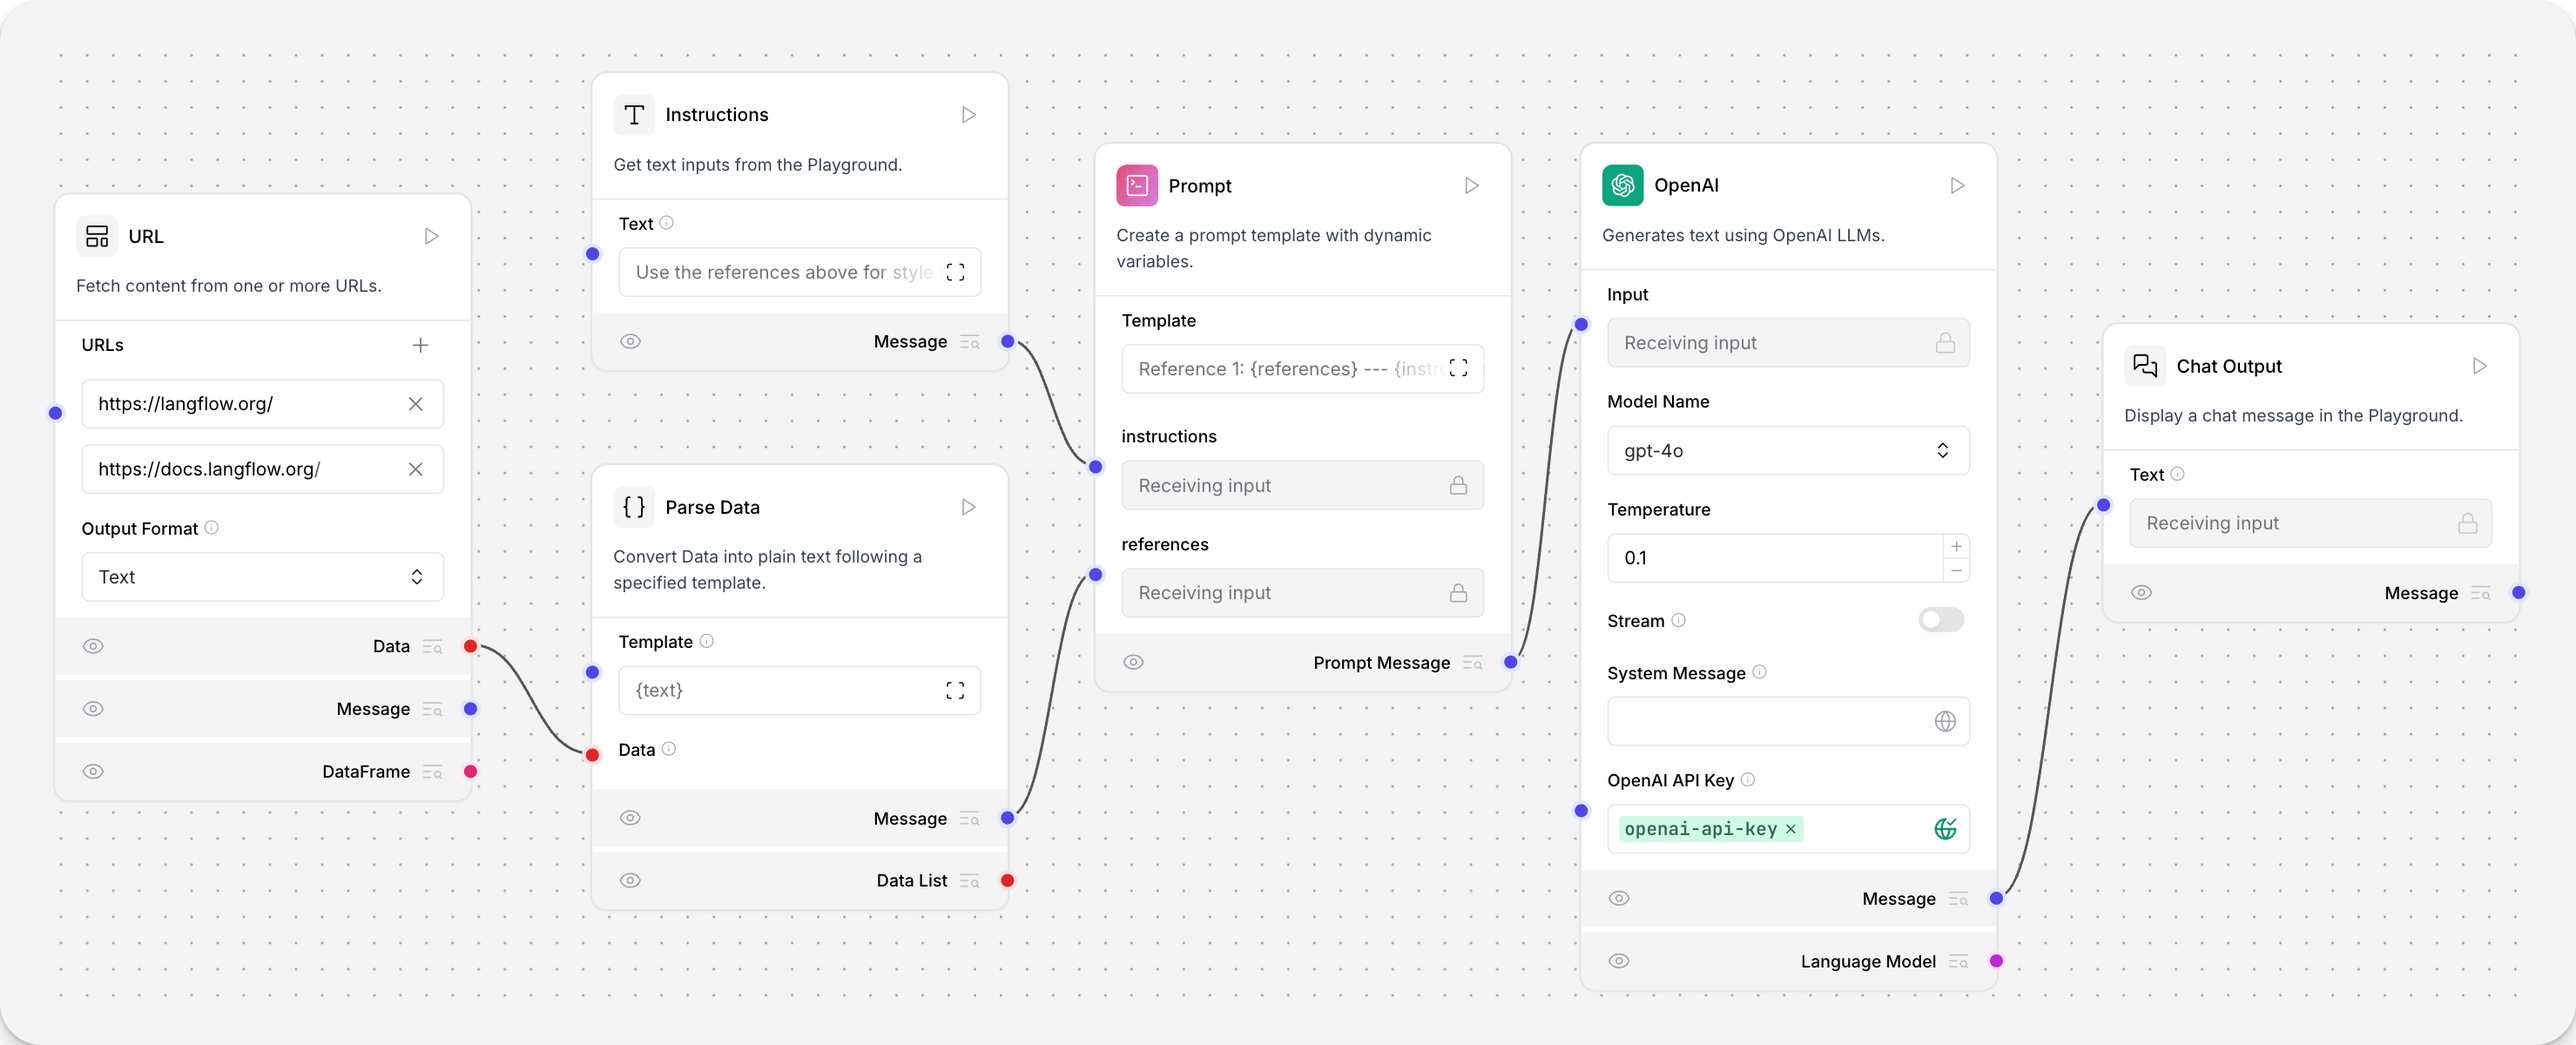
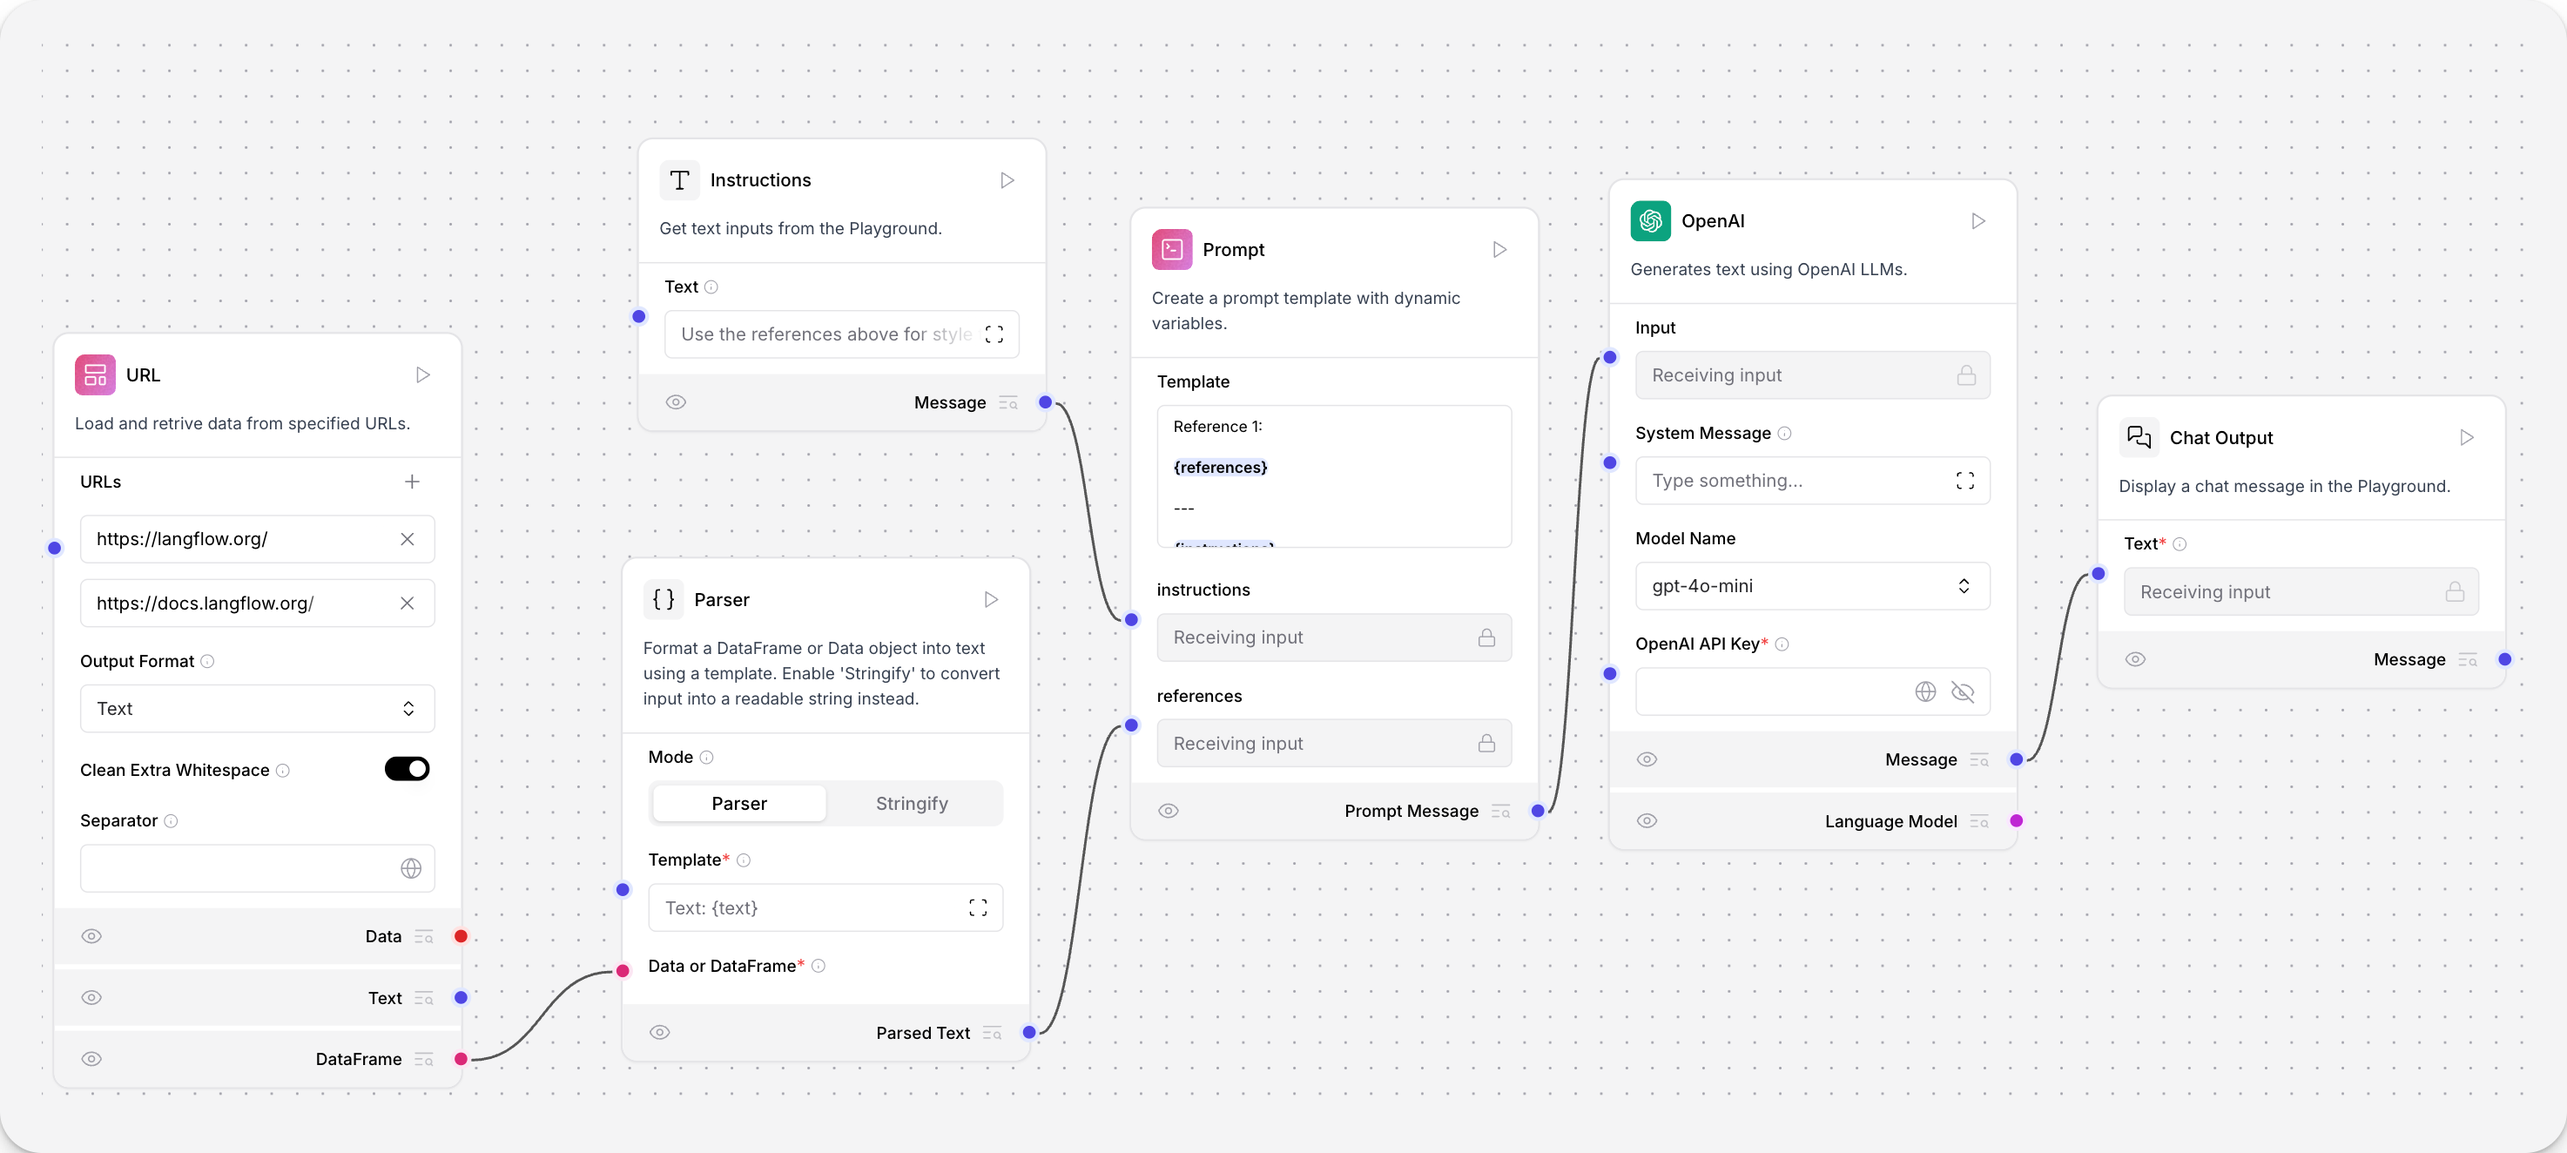
docs: clean up starter flows and screenshots (#7428)
* quickstart-use-parser

* update-screenshots

* blog-writer

* document-qa

* remove-math-agent-and-redirect

* other-starter-flows

* swap-message-history-and-message-store

* link

* prerequisite-language

* Apply suggestions from code review

* docs: update prerequisite phrasing for clarity

* add-running-instance-to-quickstart

* bullets

* quickstart-spacing

---------

diff --git a/docs/docusaurus.config.js b/docs/docusaurus.config.js
@@ -172,8 +172,9 @@ const config = {
             ],
           },
           {
-            to: "/math-agent",
+            to: "/starter-projects-simple-agent",
             from: [
+              "/math-agent",
               "/starter-projects-math-agent",
               "/tutorials-math-agent"
             ],

diff --git a/docs/sidebars.js b/docs/sidebars.js
@@ -25,7 +25,6 @@ module.exports = {
         'Sample-Flows/blog-writer',
         'Sample-Flows/document-qa',
         'Sample-Flows/memory-chatbot',
-        'Sample-Flows/math-agent',
         'Sample-Flows/sequential-agent',
         'Sample-Flows/travel-planning-agent',
       ],

diff --git a/docs/docs/Get-Started/get-started-quickstart.md b/docs/docs/Get-Started/get-started-quickstart.md
@@ -9,17 +9,18 @@ Get to know Langflow by building an OpenAI-powered chatbot application. After yo
 
 ## Prerequisites
 
-* [An OpenAI API key](https://platform.openai.com/)
-* [An Astra DB vector database](https://docs.datastax.com/en/astra-db-serverless/get-started/quickstart.html) with:
-	* An Astra DB application token scoped to read and write to the database
-	* A collection created in [Astra](https://docs.datastax.com/en/astra-db-serverless/databases/manage-collections.html#create-collection) or a new collection created in the **Astra DB** component
+- [A running Langflow instance](/get-started-installation)
+- [An OpenAI API key](https://platform.openai.com/)
+- [An Astra DB vector database](https://docs.datastax.com/en/astra-db-serverless/get-started/quickstart.html) with:
+	- An Astra DB application token scoped to read and write to the database
+	- A collection created in [Astra](https://docs.datastax.com/en/astra-db-serverless/databases/manage-collections.html#create-collection) or a new collection created in the **Astra DB** component
 
 ## Open Langflow and start a new project
 
 1. From the Langflow dashboard, click **New Flow**, and then select **Blank Flow**. A blank workspace opens where you can build your flow.
 
 :::tip
-If you don't want to create a blank flow, click **New Flow**, and then select **Basic Prompting** for a pre-built flow.
+If you want a pre-built flow, click **New Flow**, and then select **Basic Prompting**.
 Continue to [Run the basic prompting flow](#run-basic-prompting-flow).
 :::
 
@@ -68,8 +69,8 @@ Add your OpenAI API key to the OpenAI model component, and add a prompt to the P
 
 1. Add your credentials to the OpenAI component. The fastest way to complete these fields is with Langflow’s [Global Variables](/configuration-global-variables).
 
-	1. In the OpenAI component’s OpenAI API Key field, click the <Icon name="Globe" aria-label="Globe" /> **Globe** button, and then click **Add New Variable**. 
-	Alternatively, click your username in the top right corner, and then click **Settings**, **Global Variables**, and then **Add New**.
+	1. In the OpenAI component’s OpenAI API Key field, click the <Icon name="Globe" aria-label="Globe" /> **Globe** button, and then click **Add New Variable**.
+	Alternatively, click your user icon in the top right corner, and then click **Settings**, **Global Variables**, and then **Add New**.
 	2. Name your variable. Paste your OpenAI API key (sk-…) in the Value field.
 	3. In the **Apply To Fields** field, select the OpenAI API Key field to apply this variable to all OpenAI Embeddings components.
 
@@ -122,8 +123,8 @@ The [Astra DB vector store](/components-vector-stores#astra-db-vector-store) com
 The [File](/components-data#file) component loads files from your local machine.
 4. Click **Processing**, select the **Split Text** component, and then drag it to the canvas.
 The [Split Text](/components-processing#split-text) component splits the loaded text into smaller chunks.
-5. Click **Processing**, select the **Parse Data** component, and then drag it to the canvas.
-The [Data to Message](/components-processing#data-to-message) component converts the data from the **Astra DB** component into plain text.
+5. Click **Processing**, select the **Parser** component, and then drag it to the canvas.
+The [Parser](/components-processing#parser) component converts the data from the **Astra DB** component into plain text.
 6. Click **Embeddings**, select the **OpenAI Embeddings** component, and then drag it to the canvas.
 The [OpenAI Embeddings](/components-embedding-models#openai-embeddings) component generates embeddings for the user's input, which are compared to the vector data in the database.
 7. Connect the new components into the existing flow, so your flow looks like this:

diff --git a/docs/docs/Sample-Flows/blog-writer.md b/docs/docs/Sample-Flows/blog-writer.md
@@ -5,16 +5,14 @@ slug: /blog-writer
 
 Build a Blog Writer flow for a one-shot application using OpenAI.
 
-This flow extends the Basic Prompting flow with the **URL** and **Parse data** components that fetch content from multiple URLs and convert the loaded data into plain text.
+This flow extends the Basic Prompting flow with the **URL** and **Parser** components that fetch content from multiple URLs and convert the loaded data into plain text.
 
-OpenAI uses this loaded data to generate a blog post, as instructed by the **Text input** component.
-
+OpenAI uses this loaded data to generate a blog post, as instructed by the **Text Input** and **Prompt** components.
 
 ## Prerequisites
 
-- [Langflow installed and running](/get-started-installation)
-- [OpenAI API key created](https://platform.openai.com/)
-
+- [A running Langflow instance](/get-started-installation)
+- [An OpenAI API key](https://platform.openai.com/)
 
 ## Create the blog writer flow
 
@@ -25,10 +23,10 @@ OpenAI uses this loaded data to generate a blog post, as instructed by the **Tex
 ![](/img/starter-flow-blog-writer.png)
 
 
-This flow creates a one-shot article generator with **Prompt**, **OpenAI**, and **Chat Output** components, augmented with reference content and instructions from the **URL** and **Text Input** components.
+This flow creates a blog article generator with **Prompt**, **OpenAI**, and **Chat Output** components, augmented with reference content and instructions from the **URL** and **Text Input** components.
 
 The **URL** component extracts raw text and metadata from one or more web links.
-The **Parse Data** component converts the data coming from the **URL** component into plain text to feed the prompt.
+The **Parser** component converts the data coming from the **URL** component into plain text to feed the prompt.
 
 To examine the flow's prompt, click the **Template** field of the **Prompt** component.
 
@@ -44,7 +42,7 @@ Reference 1:
 Blog:
 ```
 
-The `{instructions}` value is received from the **Text input** component, and one or more `{references}` are received from a list of URLs parsed from the **URL** component.
+The `{instructions}` value is received from the **Text Input** component, and one or more `{references}` are received from a list of URLs parsed from the **URL** component.
 
 
 ### Run the blog writer flow

diff --git a/docs/docs/Starter-Projects/starter-projects-vector-store-rag.md b/docs/docs/Starter-Projects/starter-projects-vector-store-rag.md
@@ -19,10 +19,11 @@ We've chosen [Astra DB](https://astra.datastax.com/signup?utm_source=langflow-p
 
 ## Prerequisites
 
-* [An OpenAI API key](https://platform.openai.com/)
-* [An Astra DB vector database](https://docs.datastax.com/en/astra-db-serverless/get-started/quickstart.html) with the following:
-	* An Astra DB application token scoped to read and write to the database
-	* A collection created in [Astra](https://docs.datastax.com/en/astra-db-serverless/databases/manage-collections.html#create-collection) or a new collection created in the **Astra DB** component
+- [A running Langflow instance](/get-started-installation)
+- [An OpenAI API key](https://platform.openai.com/)
+- [An Astra DB vector database](https://docs.datastax.com/en/astra-db-serverless/get-started/quickstart.html) with the following:
+	- An Astra DB application token scoped to read and write to the database
+	- A collection created in [Astra](https://docs.datastax.com/en/astra-db-serverless/databases/manage-collections.html#create-collection) or a new collection created in the **Astra DB** component
 
 
 ## Open Langflow and start a new project
@@ -46,7 +47,7 @@ The **Retriever Flow** (top of the screen) embeds the user's queries into vecto
 - **Chat Input** receives user input from the **Playground**.
 - **OpenAI Embeddings** converts the user query into vector form.
 - **Astra DB** performs similarity search using the query vector.
-- **Parse Data** processes the retrieved chunks.
+- **Parser** processes the retrieved chunks.
 - **Prompt** combines the user query with relevant context.
 - **OpenAI** generates the response using the prompt.
 - **Chat Output** returns the response to the **Playground**.

diff --git a/docs/docs/Starter-Projects/starter-projects-simple-agent.md b/docs/docs/Starter-Projects/starter-projects-simple-agent.md
@@ -3,7 +3,7 @@ title: Simple agent
 slug: /starter-projects-simple-agent
 ---
 
-Build a **Simple Agent** flow for an agentic application using the **Tool-calling agent** component.
+Build a **Simple Agent** flow for an agentic application using the [Tool-calling agent](/agents-tool-calling-agent-component) component.
 
 An **agent** uses an LLM as its "brain" to select among the connected tools and complete its tasks.
 
@@ -12,7 +12,8 @@ The agent selects the **Calculator** tool for simple math problems and the **URL
 
 ## Prerequisites
 
-To use this flow, you need an OpenAI API key.
+- [A running Langflow instance](/get-started-installation)
+- [An OpenAI API key](https://platform.openai.com/)
 
 ## Open Langflow and start a new flow
 
@@ -47,7 +48,7 @@ as_dataframe: Load and retrieve data in a structured format (dataframe) from spe
 get_current_date: Returns the current date and time in a selected timezone.
 ```
 4. Ask the agent a question. For example, ask it to create a tabletop character using your favorite rules set.
-The agent will tell you when it's using the `URL-fetch_content_text` tool to search for rules information, and when it's using `CalculatorComponent-evaluate_expression` to generate attributes with dice rolls.
+The agent tells you when it's using the `URL-fetch_content_text` tool to search for rules information, and when it's using `CalculatorComponent-evaluate_expression` to generate attributes with dice rolls.
 The final output should be similar to this:
 
 ```text

diff --git a/docs/docs/Sample-Flows/document-qa.md b/docs/docs/Sample-Flows/document-qa.md
@@ -7,8 +7,8 @@ Build a question-and-answer chatbot with a document loaded from local memory.
 
 ## Prerequisites
 
-- [Langflow installed and running](/get-started-installation)
-- [OpenAI API key created](https://platform.openai.com/)
+- [A running Langflow instance](/get-started-installation)
+- [An OpenAI API key](https://platform.openai.com/)
 
 ## Create the document QA flow
 
@@ -18,7 +18,7 @@ Build a question-and-answer chatbot with a document loaded from local memory.
 
 ![](/img/starter-flow-document-qa.png)
 
-This flow is composed of a chatbot with the **Chat Input**, **Prompt**, **OpenAI**, and **Chat Output** components, but also incorporates a **File** component, which loads a file from your local machine. **Parse Data** is used to convert the data from **File** into the **Prompt** component as `{Document}`.
+This flow is composed of a chatbot with the **Chat Input**, **Prompt**, **OpenAI**, and **Chat Output** components, but also incorporates a **File** component, which loads a file from your local machine. The **Parser** component converts the data from the **File** component into the **Prompt** component as `{Document}`.
 
 The **Prompt** component is instructed to answer questions based on the contents of `{Document}`. This gives the **OpenAI** component context it would not otherwise have access to.
 

diff --git a/docs/docs/Sample-Flows/memory-chatbot.md b/docs/docs/Sample-Flows/memory-chatbot.md
@@ -9,8 +9,8 @@ This flow extends the [basic prompting flow](/starter-projects-basic-prompting) 
 
 ## Prerequisites
 
-- [Langflow installed and running](/get-started-installation)
-- [OpenAI API key created](https://platform.openai.com/)
+- [A running Langflow instance](/get-started-installation)
+- [An OpenAI API key](https://platform.openai.com/)
 
 ## Create the memory chatbot flow
 
@@ -37,14 +37,12 @@ History:
 ```
 
 The `{memory}` code in the prompt creates a new input port in the component called **memory**.
-The **Chat Memory** component is connected to this port to store chat messages from the **Playground**.
-
-This gives the **OpenAI** component a memory of previous chat messages.
+The **Chat Memory** component is connected to this port to store chat messages from the **Playground**, and provide the **OpenAI** component with a memory of previous chat messages.
 
 ## Run the memory chatbot flow
 
 1. Open the **Playground**.
-2. Type multiple questions. For example, try entering this conversation:
+2. Enter multiple questions. For example, try entering this conversation:
 
 ```plain
 Hi, my name is Luca.

diff --git a/docs/docs/Develop/session-id.md b/docs/docs/Develop/session-id.md
@@ -33,7 +33,8 @@ The `my_custom_session_value` value is used in components that accept it, and th
 
 ## Retrieval of messages from memory by session ID
 
-Add a [Message store](/components-helpers#message-store) component to a flow to access the default `langflow.db` database. The component accepts `sessionID` as a filter parameter, and uses the session ID value from upstream automatically to retrieve message history by session ID from storage.
+To retrieve messages from local Langflow memory, add a [Message history](/components-helpers#message-history) component to your flow.
+The component accepts `sessionID` as a filter parameter, and uses the session ID value from upstream automatically to retrieve message history by session ID from storage.
 
 Messages can be retrieved by `session_id` from the `/monitor` endpoint in the API. For more information, see the [API examples](https://docs.langflow.org/api-reference-api-examples#get-messages).
 

diff --git a/docs/docs/Agents/agent-tool-calling-agent-component.md b/docs/docs/Agents/agent-tool-calling-agent-component.md
@@ -54,7 +54,7 @@ Point **API Request** to an online rules document, tell your agent `You are a fu
 * You need to learn a new software language quickly.
 Point **API Request** to some docs, tell your agent `You are a knowledgeable software developer who uses the tools at your disposal`, and start learning.
 
-See what problems you can solve with this flow. As your problem becomes more specialized, add a tool. For example, the [math agent project](/math-agent) adds a Python REPL component to solve math problems that are too challenging for the calculator.
+See what problems you can solve with this flow. As your problem becomes more specialized, add more tools. For example, add a Python REPL component to solve math problems that are too challenging for the calculator.
 
 ### Edit a tool's metadata
 

diff --git a/docs/docs/Sample-Flows/travel-planning-agent.md b/docs/docs/Sample-Flows/travel-planning-agent.md
@@ -15,7 +15,9 @@ All agents have access to the **Search API** and **URL Content Fetcher** compone
 
 ## Prerequisites
 
-To use this flow, you need an [OpenAI API key](https://platform.openai.com/) and a [Search API key](https://www.searchapi.io/).
+- [A running Langflow instance](/get-started-installation)
+- [An OpenAI API key](https://platform.openai.com/)
+- [A Search API key](https://www.searchapi.io/)
 
 ## Open Langflow and start a new flow
 

diff --git a/docs/docs/Sample-Flows/sequential-agent.md b/docs/docs/Sample-Flows/sequential-agent.md
@@ -10,6 +10,8 @@ Each agent has an LLM model and a unique set of tools at its disposal, with **Pr
 Each successive agent in the flow builds on the work of the previous agent, creating a chain of reasoning for solving complex problems.
 
 ## Prerequisites
+
+- [A running Langflow instance](/get-started-installation)
 - [An OpenAI API key](https://platform.openai.com/)
 - [A Tavily AI API key](https://www.tavily.com/)
 
